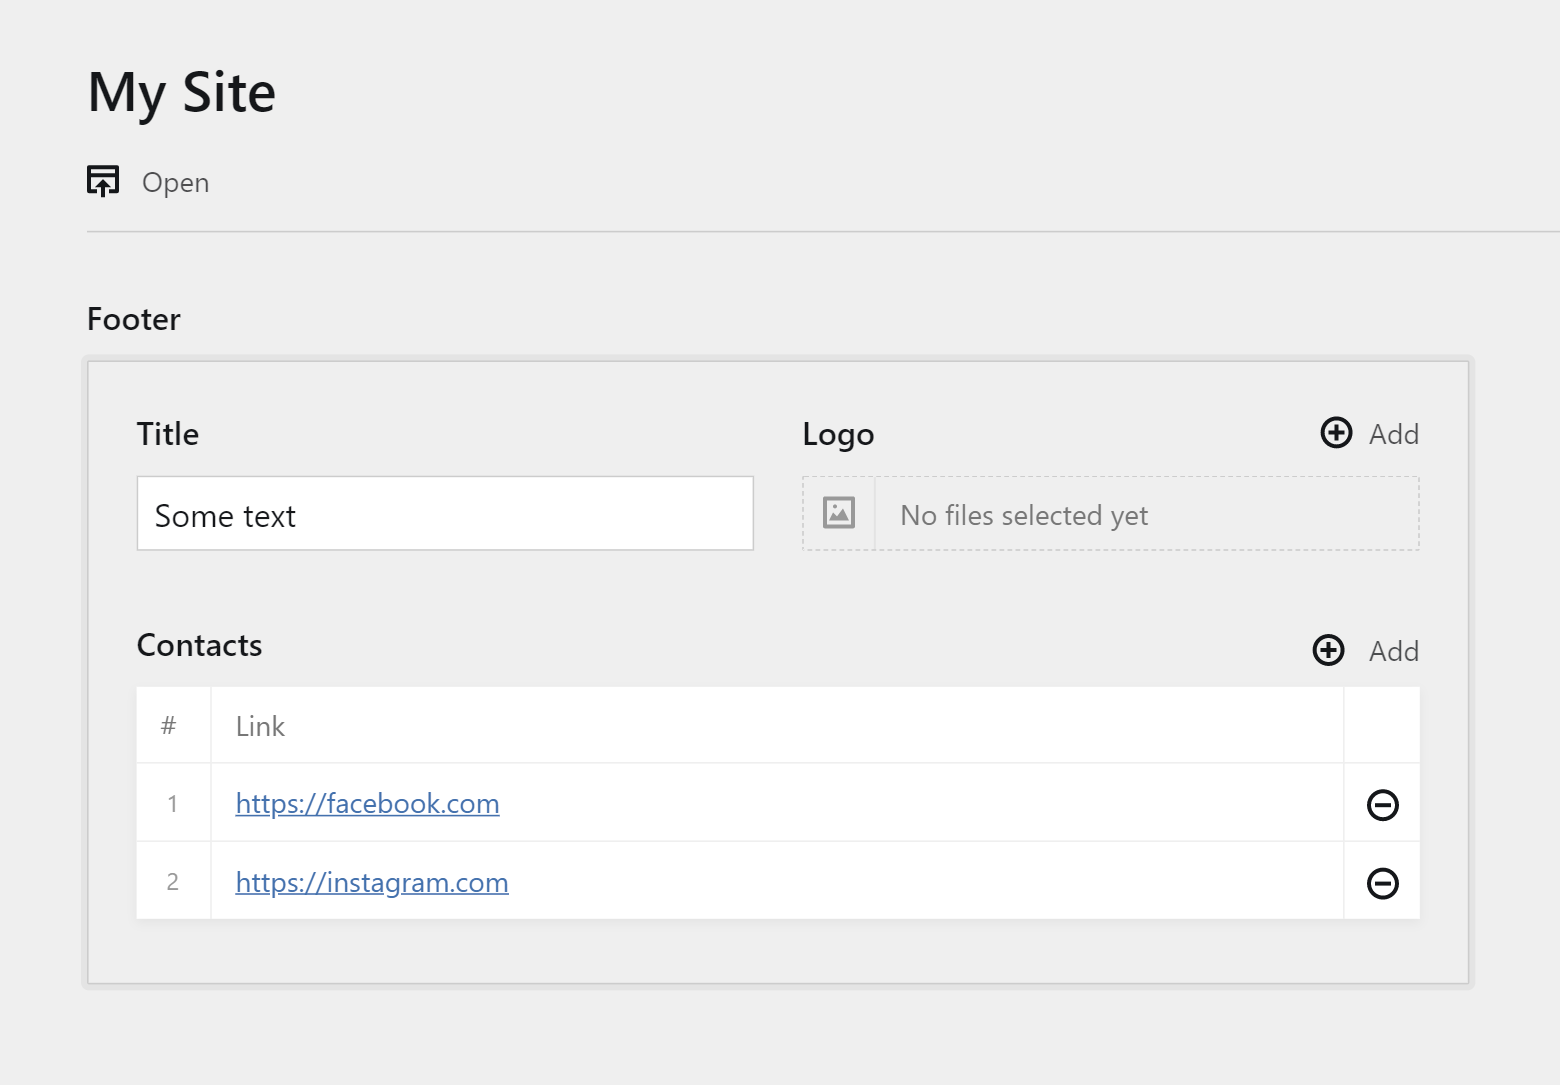
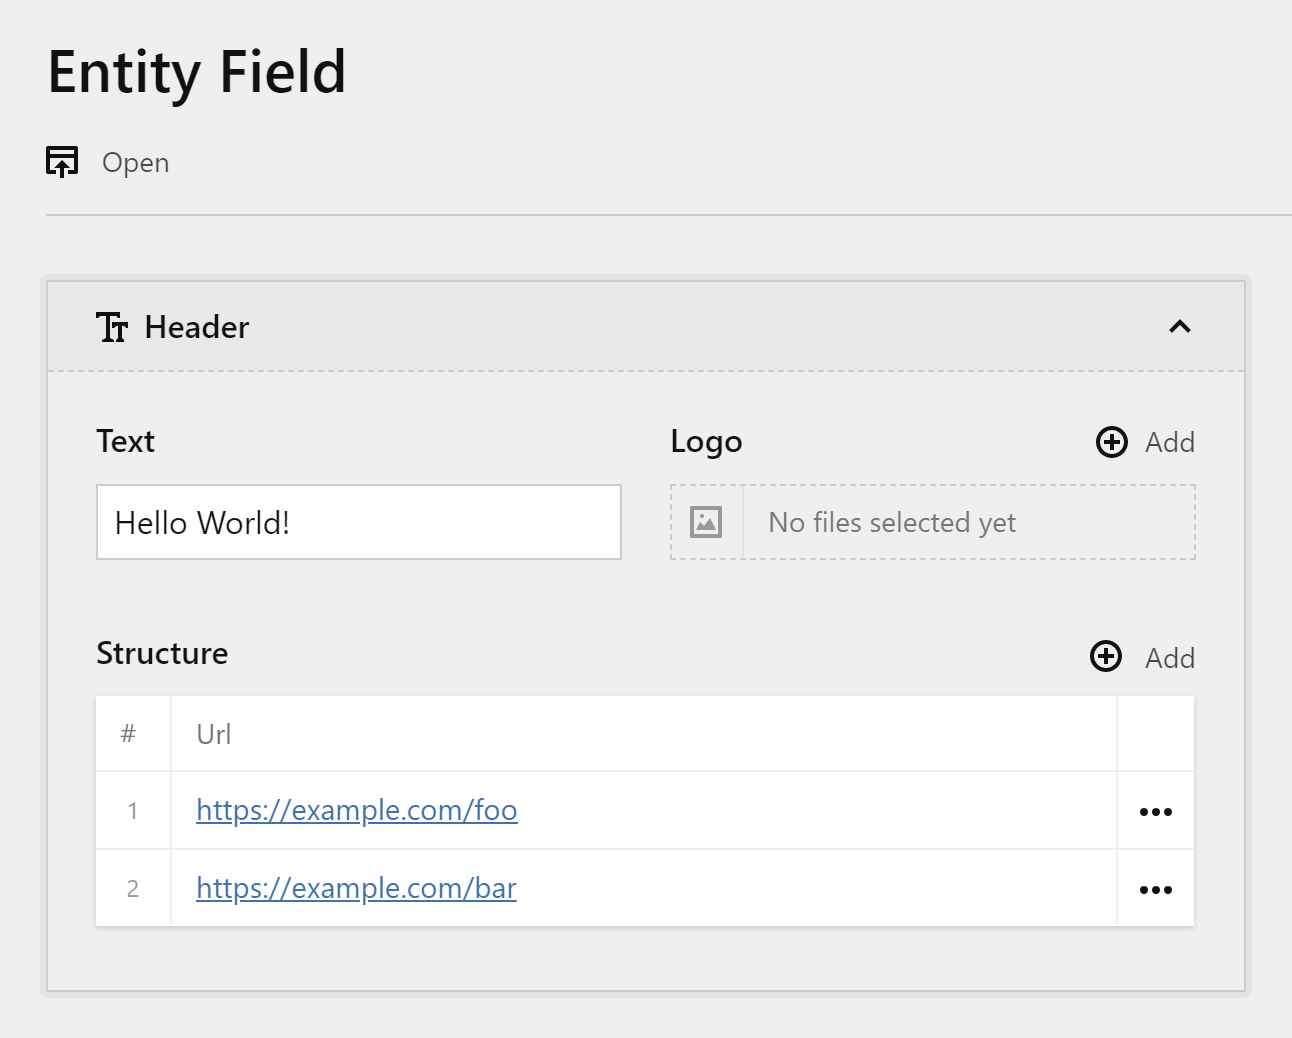
docs: update screenshot and toggle usage

diff --git a/docs/README.md b/docs/README.md
@@ -14,34 +14,38 @@ composer require oblik/kirby-entity-field
 
 ## Usage
 
-### Field
-
 In the blueprint:
 
 ```yml
 fields:
-  footer:
-    type: entity
-    icon: text #optional
-    toggle: true #optional
-    fields:
-      title:
-        type: text
-      logo:
-        type: files
-```
-
-In your `site/config/config.php`:
-
-```php
-return [
-    'oblik.entity-field.toggle' => true, // default: false
-];
+    header:
+        type: entity
+        icon: title # optional
+        toggle: true # optional
+        fields:
+            title:
+                type: text
+            logo:
+                type: files
 ```
 
 In the template, use the `toEntity()` method:
 
 ```php
-$footer = $page->footer()->toEntity();
-echo $footer->title();
+$header = $page->header()->toEntity();
+echo $header->title();
+```
+
+### Toggle
+
+When the `toggle` option is enabled, the field form can be collapsed. The state is stored in `localStorage` for when the user navigates away from the page and back.
+
+To enable it globally for all fields (instead of explicitly setting it in the blueprint for each field), add the following to your `site/config/config.php`:
+
+```php
+return [
+    'oblik.entity-field' => [
+        'toggle' => true
+    ]
+];
 ```
